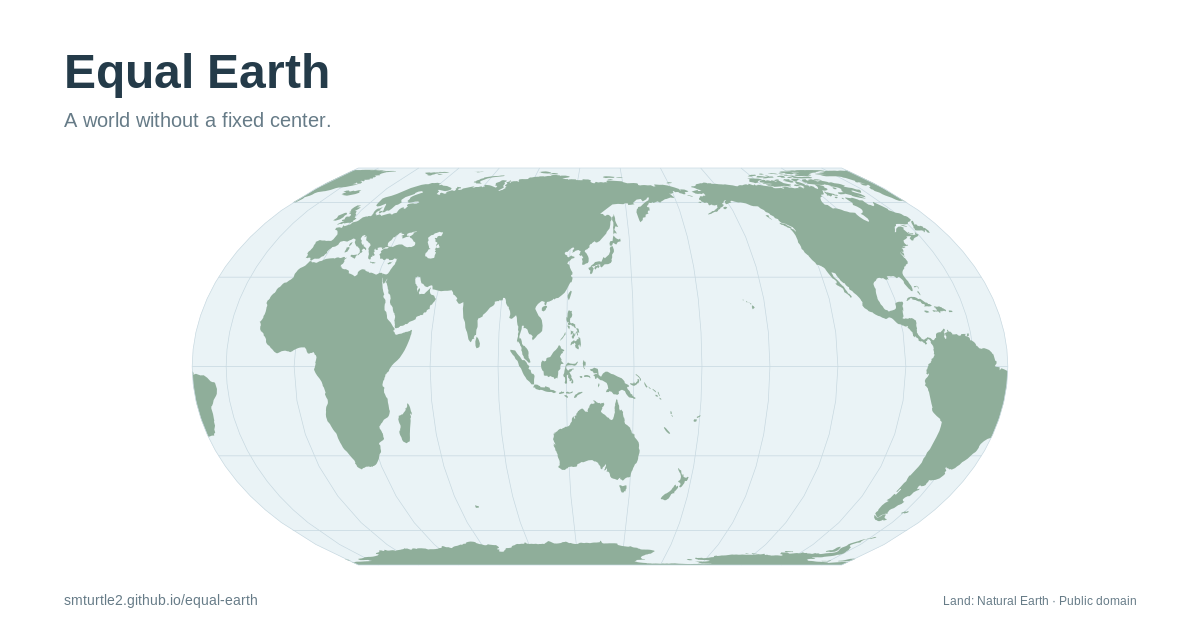
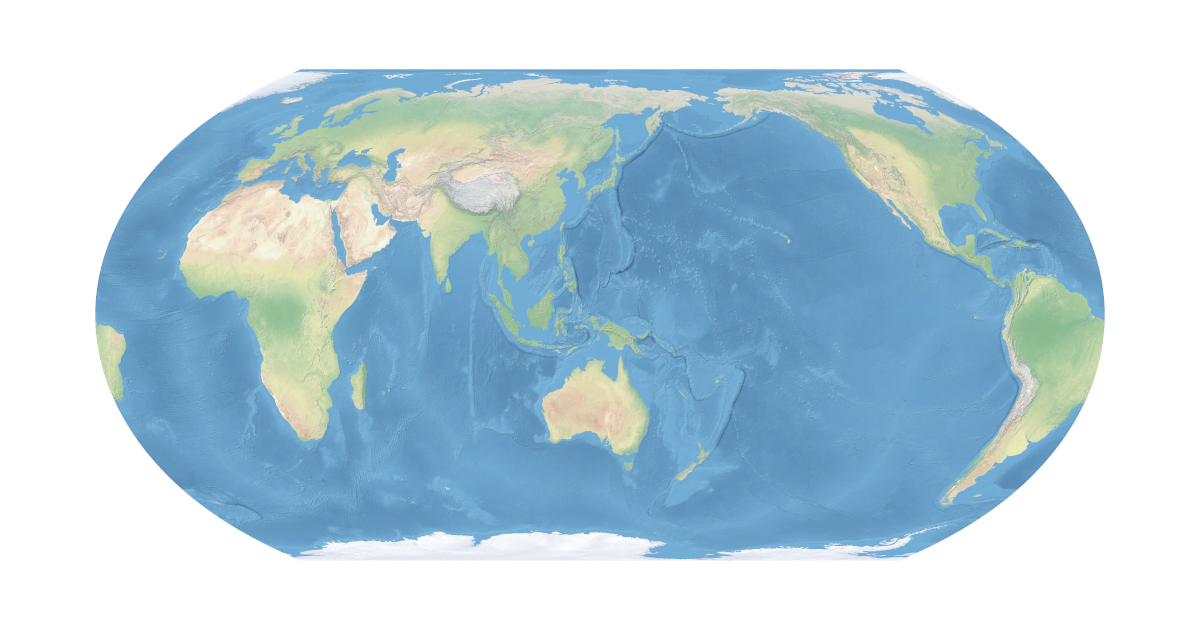
fix: lock texture selection while loading and refresh map preview

diff --git a/tests/browser/map.spec.ts b/tests/browser/map.spec.ts
@@ -279,7 +279,7 @@ test('maps a known raster accurately through rotation, handles input and idles',
   expect(errors).toEqual([]);
 });
 
-test('loads both real textures, preserves the view, and recovers from failed or superseded switches', async ({ page }) => {
+test('loads both real textures, preserves the view, and locks controls during switches', async ({ page }) => {
   const errors: string[] = [];
   page.on('pageerror', error => errors.push(error.message));
   await installReadback(page);
@@ -288,6 +288,9 @@ test('loads both real textures, preserves the view, and recovers from failed or 
   const selector = page.getByRole('group', { name: '지도 텍스처', exact: true });
   const texture = page.locator('#texture');
   const menu = page.locator('#texture-menu');
+  const options = menu.locator('button[role="menuitemradio"]');
+  const loading = page.locator('#texture-loading');
+  const loadingDots = loading.locator('span');
   const choose = async (id: string) => {
     await texture.click();
     await menu.locator(`button[data-texture="${id}"]`).click();
@@ -314,6 +317,7 @@ test('loads both real textures, preserves the view, and recovers from failed or 
   await expect(canvas).toHaveAttribute('data-state', 'ready');
   await expect(canvas).toHaveAttribute('data-texture', 'natural-earth');
   await expect(selector).toHaveAttribute('aria-busy', 'false');
+  await expect(loading).toBeHidden();
   await expect(texture).toHaveAttribute('aria-label', '지도 텍스처');
   await expect(texture).toHaveAttribute('aria-haspopup', 'menu');
   await expect(texture).toHaveAttribute('aria-expanded', 'false');
@@ -341,6 +345,9 @@ test('loads both real textures, preserves the view, and recovers from failed or 
   await page.route('**/textures/blue-marble.jpg', route => route.fulfill({ status: 503, body: 'Unavailable' }));
   await choose('blue-marble');
   await expect(page.locator('#texture-status')).toContainText('불러오지 못했습니다');
+  await expect(texture).toBeEnabled();
+  await expect.poll(() => options.evaluateAll(buttons => buttons.every(button => !(button as HTMLButtonElement).disabled))).toBe(true);
+  await expect(loading).toBeHidden();
   await expect(menu.locator('[data-texture="natural-earth"]')).toHaveAttribute('aria-checked', 'true');
   await expect(texture).toContainText('Natural Earth II');
   expect((await pixels()).hash).toBe(original.hash);
@@ -353,19 +360,39 @@ test('loads both real textures, preserves the view, and recovers from failed or 
   await page.route('**/textures/blue-marble.jpg', async route => {
     started();
     await held;
-    await route.continue().catch(() => {}); // The superseded request may already be aborted.
+    await route.continue();
   });
   const controlBounds = await selector.boundingBox();
   await choose('blue-marble');
   await requested;
   await expect(selector).toHaveAttribute('aria-busy', 'true');
-  expect(await selector.boundingBox()).toEqual(controlBounds);
-  await choose('natural-earth');
-  await expect(selector).toHaveAttribute('aria-busy', 'false');
+  await expect(texture).toBeDisabled();
+  await expect.poll(() => options.evaluateAll(buttons => buttons.every(button => (button as HTMLButtonElement).disabled))).toBe(true);
+  await expect(menu).toBeHidden();
+  await expect(canvas).toHaveAttribute('data-texture', 'natural-earth');
+  await expect(loading).toBeVisible();
+  await expect(loadingDots).toHaveCount(3);
+  for (let i = 0; i < 3; i++) await expect(loadingDots.nth(i)).toBeVisible();
+  const animationNames = await loadingDots.evaluateAll(spans => spans.map(span => getComputedStyle(span).animationName));
+  expect(animationNames).toHaveLength(3);
+  expect(animationNames.every(name => name !== 'none')).toBe(true);
+  const loadingBounds = await loading.boundingBox();
+  expect(loadingBounds).not.toBeNull();
+  await page.waitForTimeout(100);
+  expect(await loading.boundingBox()).toEqual(loadingBounds);
   expect(await selector.boundingBox()).toEqual(controlBounds);
   release();
-  await page.waitForTimeout(150);
+  await expect(selector).toHaveAttribute('aria-busy', 'false');
+  await expect(texture).toBeEnabled();
+  await expect.poll(() => options.evaluateAll(buttons => buttons.every(button => !(button as HTMLButtonElement).disabled))).toBe(true);
+  await expect(loading).toBeHidden();
+  expect(await selector.boundingBox()).toEqual(controlBounds);
+  await expect(canvas).toHaveAttribute('data-texture', 'blue-marble');
+  await waitForRender(page, 'blue-marble');
+  expect((await pixels()).hash).toBe(nasa.hash);
+  await choose('natural-earth');
   await expect(canvas).toHaveAttribute('data-texture', 'natural-earth');
+  await waitForRender(page, 'natural-earth');
   expect((await pixels()).hash).toBe(original.hash);
   await page.unroute('**/textures/blue-marble.jpg');
   await choose('blue-marble');

diff --git a/src/texture-controls.ts b/src/texture-controls.ts
@@ -7,6 +7,8 @@ export function createTextureControls() {
   const menu = document.querySelector<HTMLDivElement>('#texture-menu')!;
   const status = document.querySelector<HTMLSpanElement>('#texture-status')!;
   let selected: TextureId = 'natural-earth';
+  let enabled = false;
+  let busy = true;
   let change: (id: TextureId) => void = () => {};
   const options = Object.entries(textures).map(([id, texture]) => {
     const option = document.createElement('button');
@@ -16,6 +18,7 @@ export function createTextureControls() {
     option.textContent = texture.label;
     option.tabIndex = -1;
     option.addEventListener('click', () => {
+      if (!enabled || busy) return;
       setSelection(id as TextureId);
       menu.hidePopover();
       trigger.focus();
@@ -24,6 +27,12 @@ export function createTextureControls() {
     menu.append(option);
     return option;
   });
+  function updateAvailability() {
+    const disabled = !enabled || busy;
+    trigger.disabled = disabled;
+    for (const option of options) option.disabled = disabled;
+    if (disabled) menu.hidePopover();
+  }
   function setSelection(id: TextureId) {
     selected = id;
     label.textContent = textures[id].label;
@@ -34,6 +43,7 @@ export function createTextureControls() {
   }
   // popovertarget owns click toggling and light-dismiss as one browser action.
   trigger.addEventListener('keydown', event => {
+    if (!enabled || busy) return;
     if (event.key !== 'ArrowDown' && event.key !== 'ArrowUp') return;
     event.preventDefault();
     menu.showPopover();
@@ -64,11 +74,16 @@ export function createTextureControls() {
     options[next].focus();
   });
   setSelection(selected);
+  updateAvailability();
   return {
     setSelection,
     onChange(handler: (id: TextureId) => void) { change = handler; },
-    setEnabled(enabled: boolean) { trigger.disabled = !enabled; if (!enabled) menu.hidePopover(); },
-    setBusy(busy: boolean) { control.setAttribute('aria-busy', String(busy)); },
+    setEnabled(value: boolean) { enabled = value; updateAvailability(); },
+    setBusy(value: boolean) {
+      busy = value;
+      control.setAttribute('aria-busy', String(busy));
+      updateAvailability();
+    },
     setStatus(text: string, error = false) { status.textContent = text; status.dataset.error = String(error); },
   };
 }

diff --git a/src/style.css b/src/style.css
@@ -32,6 +32,13 @@ button { -webkit-tap-highlight-color: transparent; }
 #texture:hover, #texture[aria-expanded=true] { background: var(--control-hover); }
 #texture:disabled, #globe-layers-button:disabled { cursor: default; opacity: .5; }
 .select-chevron { flex: none; fill: none; stroke: #6b7e8b; stroke-width: 1.5; stroke-linecap: round; stroke-linejoin: round; pointer-events: none; }
+#texture-loading { display: none; flex: none; width: 16px; height: 16px; align-items: center; justify-content: space-between; }
+#texture-control[aria-busy=true] .select-chevron { display: none; }
+#texture-control[aria-busy=true] #texture-loading { display: flex; }
+#texture-loading span { width: 3px; height: 3px; border-radius: 50%; background: currentColor; animation: texture-loading 1.2s ease-in-out infinite; }
+#texture-loading span:nth-child(2) { animation-delay: .15s; }
+#texture-loading span:nth-child(3) { animation-delay: .3s; }
+@keyframes texture-loading { 0%, 60%, 100% { opacity: .3; } 30% { opacity: 1; } }
 #texture:focus-visible, #globe-layers-button:focus-visible { outline: 2px solid #92a9b9; outline-offset: 3px; }
 #texture-status { position: absolute; }
 #texture-status:not([data-error=true]) { width: 1px; height: 1px; overflow: hidden; clip-path: inset(50%); white-space: nowrap; }
@@ -58,7 +65,10 @@ button { -webkit-tap-highlight-color: transparent; }
   #globe-panel { right: max(16px, env(safe-area-inset-right)); bottom: max(84px, calc(env(safe-area-inset-bottom) + 68px)); }
   #texture-control { bottom: max(20px, env(safe-area-inset-bottom)); }
 }
-@media (prefers-reduced-motion: reduce) { button { transition: none !important; } }
+@media (prefers-reduced-motion: reduce) {
+  button { transition: none !important; }
+  #texture-loading span { animation: none; }
+}
 
 #texture-menu {
   position: fixed; inset: auto auto max(76px, calc(env(safe-area-inset-bottom) + 52px)) 50%;

diff --git a/index.html b/index.html
@@ -28,6 +28,7 @@
       <button id="texture" type="button" aria-label="지도 텍스처" aria-haspopup="menu" aria-controls="texture-menu" aria-expanded="false" popovertarget="texture-menu" disabled>
         <span id="texture-label"></span>
         <svg class="select-chevron" viewBox="0 0 16 16" width="16" height="16" aria-hidden="true"><path d="m4 6 4 4 4-4"/></svg>
+        <span id="texture-loading" aria-hidden="true"><span></span><span></span><span></span></span>
       </button>
       <div id="texture-menu" role="menu" aria-label="지도 텍스처 목록" popover></div>
       <span id="texture-status" role="status"></span>

diff --git a/THIRD_PARTY_NOTICES.md b/THIRD_PARTY_NOTICES.md
@@ -6,7 +6,7 @@ The third-party components below retain their original terms.
 
 ## Natural Earth II
 
-Asset: public/textures/natural-earth.jpg
+Assets: public/textures/natural-earth.jpg, public/og-image.png
 Made with Natural Earth. Natural Earth raster and vector data are public domain.
 Source: https://www.naturalearthdata.com/downloads/10m-raster-data/10m-natural-earth-2/
 Terms: https://www.naturalearthdata.com/about/terms-of-use/
@@ -14,13 +14,8 @@ Terms: https://www.naturalearthdata.com/about/terms-of-use/
 The Shaded Relief and Water raster was resized from 21600 x 10800 to
 8192 x 4096 and encoded as JPEG. No regional content edits were made.
 
-## Natural Earth land outlines
-
-Asset: public/og-image.png
-The social preview uses Natural Earth 1:110m land polygons, projected with
-Equal Earth and centered on the Pacific. Natural Earth data are public domain.
-Source: https://www.naturalearthdata.com/downloads/110m-physical-vectors/110m-land/
-Terms: https://www.naturalearthdata.com/about/terms-of-use/
+The social preview is the application’s WebGPU-rendered Equal Earth map using
+this raster, centered on the Pacific.
 
 ## NASA Blue Marble Next Generation
 

diff --git a/README.md b/README.md
@@ -1,7 +1,9 @@
-[![Equal Earth — A world without a fixed center](public/og-image.png)](https://smturtle2.github.io/equal-earth/)
+# Equal Earth
+
+[![Equal Earth map centered on the Pacific](public/og-image.png)](https://smturtle2.github.io/equal-earth/)
 
 <p align="center">
-  <a href="https://smturtle2.github.io/equal-earth/"><strong>Live demo</strong></a> ·
+  <a href="https://smturtle2.github.io/equal-earth/"><strong>Open map</strong></a> ·
   <a href="README.ko.md">한국어</a> ·
   <a href="https://github.com/smturtle2/equal-earth/issues">Report an issue</a>
 </p>

diff --git a/README.ko.md b/README.ko.md
@@ -1,4 +1,6 @@
-[![Equal Earth — 중심을 바꿔 보는 세계지도](public/og-image.png)](https://smturtle2.github.io/equal-earth/)
+# Equal Earth
+
+[![태평양을 중심으로 렌더링한 Equal Earth 지도](public/og-image.png)](https://smturtle2.github.io/equal-earth/)
 
 <p align="center">
   <a href="https://smturtle2.github.io/equal-earth/"><strong>지도 열기</strong></a> ·
